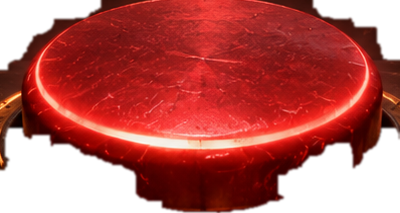
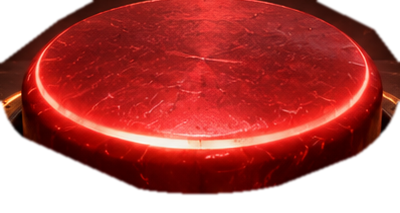
THE FINAL SECOND: the photographed button pressed like a real switch — clean convex cap matte with a smooth elliptical bottom, the collar's front lip drawn over it so the cap sinks into the brass ring, a fast 70 ms stroke, short hold and spring return with overshoot, light falling off as it goes in 

diff --git a/core/src/main/java/com/erni/finalanswer/finalsecond/FinalSecondScene.java b/core/src/main/java/com/erni/finalanswer/finalsecond/FinalSecondScene.java
@@ -17,26 +17,26 @@ import com.badlogic.gdx.utils.JsonValue;
 public final class FinalSecondScene implements Disposable {
     public static final float W=1920,H=1080;
     private final Texture plate,cap,soft;private final float sx,sy;private final float[] capR,glass,plaque;
-    private final SevenSegment seg=new SevenSegment();private final BitmapFont title,big;private final GlyphLayout layout=new GlyphLayout();
-    private float time,press,pressV,shake,flash;
+    private final SevenSegment seg=new SevenSegment();private Texture lip;private float[] lipR;private final BitmapFont title,big;private final GlyphLayout layout=new GlyphLayout();
+    private float time,press,pressV,shake,flash,pressT=-1;
 
     public FinalSecondScene(){
         plate=tex("final_second/machine_plate.png");cap=tex("final_second/button_cap.png");soft=softTex(128);
         JsonValue j=new JsonReader().parse(Gdx.files.internal("final_second/layout.json"));
         sx=W/j.get("size").getInt(0);sy=H/j.get("size").getInt(1);
-        capR=rect(j.get("cap"));glass=rect(j.get("glass"));plaque=rect(j.get("plaque"));
+        capR=rect(j.get("cap"));lipR=rect(j.get("lip"));lip=tex("final_second/collar_front.png");glass=rect(j.get("glass"));plaque=rect(j.get("plaque"));
         title=com.erni.finalanswer.ui.UiFonts.gothic(46);big=com.erni.finalanswer.ui.UiFonts.gothic(84);
     }
     /** Painting px rect (top-left origin) → world rect {x,y,w,h} with bottom-left origin. */
     private float[] rect(JsonValue r){float x=r.getFloat(0)*sx,w=r.getFloat(2)*sx,h=r.getFloat(3)*sy,y=H-r.getFloat(1)*sy-h;return new float[]{x,y,w,h};}
 
     /** Press the big red button (visual): the cap travels down, glows, the machine shudders. */
-    public void press(){pressV=9f;shake=1;flash=1;}
+    public void press(){pressT=0;shake=1;flash=1;}
     public void update(float dt){
         time+=dt;
         // spring for the cap: driven down quickly, eases back with a slight mechanical settle
-        press+=pressV*dt;if(press>=1){press=1;pressV=-2.6f;}if(press<=0&&pressV<0){press=0;pressV=0;}
-        shake=Math.max(0,shake-dt*3.2f);flash=Math.max(0,flash-dt*2.2f);
+        if(pressT>=0){pressT+=dt;if(pressT>1)pressT=-1;}
+        shake=Math.max(0,shake-dt*4.5f);flash=Math.max(0,flash-dt*2.6f);
     }
 
     /**
@@ -98,21 +98,38 @@ public final class FinalSecondScene implements Disposable {
         b.setBlendFunction(GL20.GL_SRC_ALPHA,GL20.GL_ONE_MINUS_SRC_ALPHA);b.setColor(Color.WHITE);
     }
 
+    /**
+     * The photographed cap, pressed like a real switch: it sinks into the brass collar (the collar's front lip is drawn
+     * over it, so its skirt disappears behind the ring), compresses slightly, loses the light from above as it goes in,
+     * and its internal red light flares; on release it springs back with a small overshoot and settles.
+     */
     private void button(SpriteBatch b,float jx,float jy){
-        float e=press*press*(3-2*press),travel=16*e;
-        float x=capR[0]+jx,y=capR[1]+jy-travel,w=capR[2],h=capR[3]*(1-.05f*e);
-        float glow=.55f+.25f*MathUtils.sin(time*2.2f)+flash*1.2f;
+        float e=pressCurve();
+        float travel=capR[3]*.16f*e,squash=1-.035f*e;
+        float x=capR[0]+jx,w=capR[2],h=capR[3]*squash,y=capR[1]+jy-travel+(capR[3]-h);
+        float glow=.55f+.25f*MathUtils.sin(time*2.2f)+flash*1.4f;
         b.setBlendFunction(GL20.GL_SRC_ALPHA,GL20.GL_ONE);
-        b.setColor(1f,.1f,.06f,.18f*glow);b.draw(soft,x-w*.25f,y-h*.35f,w*1.5f,h*1.5f);
+        b.setColor(1f,.1f,.06f,.16f*glow);b.draw(soft,x-w*.25f,capR[1]+jy-capR[3]*.4f,w*1.5f,capR[3]*1.6f);
         b.setBlendFunction(GL20.GL_SRC_ALPHA,GL20.GL_ONE_MINUS_SRC_ALPHA);
-        float k=1+.25f*flash;b.setColor(Math.min(1,k),Math.min(1,.92f*k),Math.min(1,.92f*k),1);b.draw(cap,x,y,w,h);
-        if(flash>0){b.setBlendFunction(GL20.GL_SRC_ALPHA,GL20.GL_ONE);b.setColor(1f,.25f,.18f,.35f*flash);b.draw(cap,x,y,w,h);b.setBlendFunction(GL20.GL_SRC_ALPHA,GL20.GL_ONE_MINUS_SRC_ALPHA);}
+        float shade=1-.28f*Math.max(0,e);                       // deeper in the collar = less light from above
+        b.setColor(shade,shade*.96f,shade*.96f,1);b.draw(cap,x,y,w,h);
+        if(flash>0){b.setBlendFunction(GL20.GL_SRC_ALPHA,GL20.GL_ONE);b.setColor(1f,.2f,.12f,.45f*flash);b.draw(cap,x,y,w,h);b.setBlendFunction(GL20.GL_SRC_ALPHA,GL20.GL_ONE_MINUS_SRC_ALPHA);}
+        // the collar's front lip in front of the cap
+        b.setColor(1,1,1,1);b.draw(lip,lipR[0]+jx,lipR[1]+jy,lipR[2],lipR[3]);
+        if(flash>0){b.setBlendFunction(GL20.GL_SRC_ALPHA,GL20.GL_ONE);b.setColor(1f,.55f,.3f,.25f*flash);b.draw(lip,lipR[0]+jx,lipR[1]+jy,lipR[2],lipR[3]);b.setBlendFunction(GL20.GL_SRC_ALPHA,GL20.GL_ONE_MINUS_SRC_ALPHA);}
         b.setColor(Color.WHITE);
     }
-
+    /** 0 at rest, 1 fully down: a fast hard stroke (≈70 ms), a short hold, then a spring return with overshoot. */
+    private float pressCurve(){
+        float t=pressT;if(t<0)return 0;
+        if(t<.07f){float k=t/.07f;return 1-(1-k)*(1-k)*(1-k);}
+        if(t<.16f)return 1;
+        float r=(t-.16f)/.42f;if(r>=1)return 0;
+        return (float)(Math.exp(-5*r)*Math.cos(r*MathUtils.PI*1.6f))*(1-r*.15f);   // springs up, overshoots a hair, settles
+    }
     private static Texture tex(String p){Texture t=new Texture(Gdx.files.internal(p),true);t.setFilter(Texture.TextureFilter.MipMapLinearLinear,Texture.TextureFilter.Linear);return t;}
     private static Texture softTex(int n){Pixmap p=new Pixmap(n,n,Pixmap.Format.RGBA8888);p.setBlending(Pixmap.Blending.None);float c=(n-1)/2f;
         for(int y=0;y<n;y++)for(int x=0;x<n;x++){float d=(float)Math.hypot(x-c,y-c)/c;float a=d>=1?0:(1-d);a=a*a*(3-2*a);p.drawPixel(x,y,Color.rgba8888(1,1,1,a));}
         Texture t=new Texture(p);t.setFilter(Texture.TextureFilter.Linear,Texture.TextureFilter.Linear);p.dispose();return t;}
-    @Override public void dispose(){plate.dispose();cap.dispose();soft.dispose();seg.dispose();title.dispose();big.dispose();}
+    @Override public void dispose(){plate.dispose();cap.dispose();lip.dispose();soft.dispose();seg.dispose();title.dispose();big.dispose();}
 }

diff --git a/lwjgl3/src/dev/java/com/erni/finalanswer/lwjgl3/FinalSecondPreview.java b/lwjgl3/src/dev/java/com/erni/finalanswer/lwjgl3/FinalSecondPreview.java
@@ -25,7 +25,7 @@ public final class FinalSecondPreview {
             @Override public void resize(int w,int h){vp.update(w,h,true);}
             float elapsed(){return (System.nanoTime()-start)/1e9f;}
             @Override public void render(){
-                float dt=Gdx.graphics.getDeltaTime();wall+=dt;scene.update(dt);post.update(dt);
+                float dt=Math.min(Gdx.graphics.getDeltaTime(),1/30f);wall+=dt;scene.update(dt);post.update(dt);
                 if(Gdx.input.isKeyJustPressed(Input.Keys.SPACE)&&stopped<0){stopped=elapsed();scene.press();}
                 if(stopped>=0&&elapsed()-stopped>4||elapsed()>14){start=System.nanoTime();stopped=-1;}
                 float t=stopped>=0?stopped:elapsed();
@@ -35,7 +35,7 @@ public final class FinalSecondPreview {
                 if(!cap.isEmpty()){
                     if(shot==0&&wall>1.9f){grab("1-visible");shot++;}
                     else if(shot==1&&wall>5f){grab("2-hidden");shot++;stopped=6.98f;scene.press();}
-                    else if(shot==2&&wall>5.07f){grab("3-pressing");shot++;}
+                    else if(shot==2&&wall>5.1f){grab("3-pressing");shot++;}
                     else if(shot==3&&wall>6.5f){grab("4-stopped");Gdx.app.exit();}}
             }
             String fmt(float s){int cs=Math.min(9999,Math.round(s*100));return String.format("%02d,%02d",cs/100,cs%100);}

diff --git a/assets/final_second/textures/ASSET_LICENSES.md b/assets/final_second/textures/ASSET_LICENSES.md
@@ -1,0 +1,9 @@
+# THE FINAL SECOND textures — Poly Haven, CC0 1.0 (public domain, commercial use allowed)
+
+Downloaded 2026-11-11 via the official API, 1k.
+
+| Texture | Author | Source |
+|---|---|---|
+| Metal Plate | Rob Tuytel | https://polyhaven.com/a/metal_plate |
+| Rusty Metal 02 | Rob Tuytel | https://polyhaven.com/a/rusty_metal_02 |
+| Metal Plate 02 | Rob Tuytel | https://polyhaven.com/a/metal_plate_02 |
